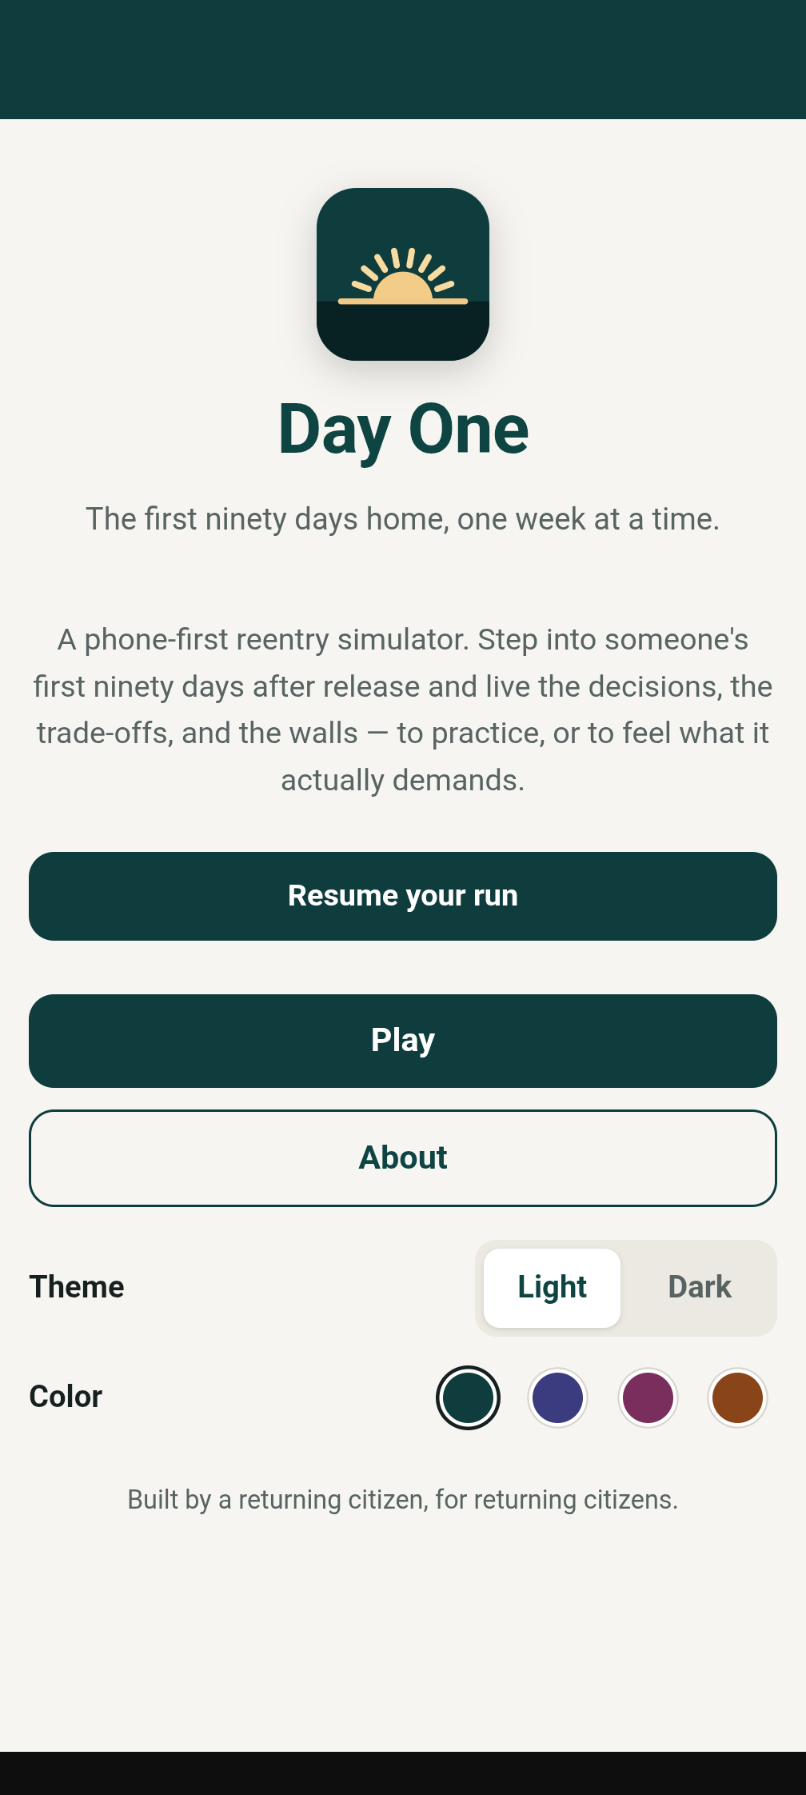
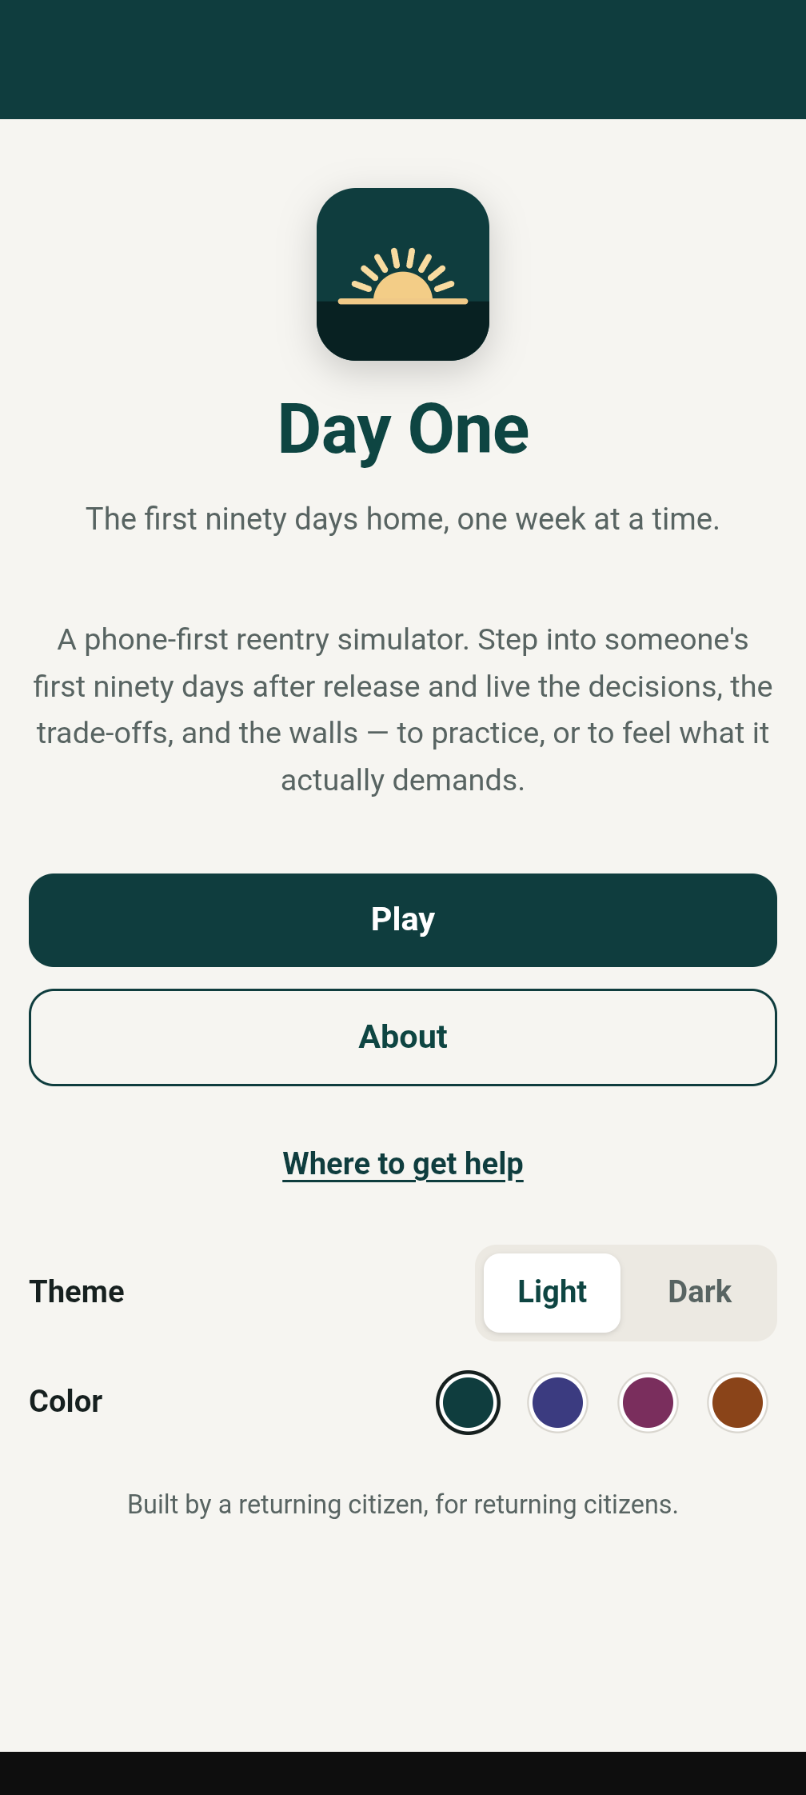
docs: ROADMAP.md + a six-shot README screenshot gallery
Add a forward-looking ROADMAP.md (next archetypes, content depth, facilitator guide;
points to CHANGELOG for shipped work) and link it from the README Status section.

Expand the README Screenshots section from two images to a curated six-shot gallery
captured on-device — landing, character select, the weekly turn, the state-ID
catch-22, the situation panel, and the debrief. (Left the 'Currently: N events / M
tests' line untouched so the housing-ladder PR owns that bump.)

diff --git a/ROADMAP.md b/ROADMAP.md
@@ -1,0 +1,52 @@
+# Roadmap
+
+Where Day One is headed. This is a living document and the *forward* look — the source
+of truth for what's already **shipped** is [`CHANGELOG.md`](CHANGELOG.md). Nothing here
+is a promise or a date, just the current order of intent.
+
+Any change has to hold to the design north stars in
+[`docs/DESIGN.md`](docs/DESIGN.md); [`CONTRIBUTING.md`](CONTRIBUTING.md) covers how to
+land one.
+
+## Recently shipped
+
+Through **v1.2.1** (see the changelog for detail):
+
+- Six character archetypes + a generated random build; training and empathy modes.
+- A reentry **resource directory** ("Where to get help"), reachable any time.
+- Transportation & housing content; the live **situation panel**; pool-change feedback.
+- A **housing ladder** so housing only moves up (street → couch → transitional → rental).
+- UX & accessibility polish; an installable, offline PWA.
+
+## Next up
+
+In rough priority order:
+
+1. **Reunifying-parent archetype** — a build whose central pressure is family court,
+   custody, and child support. Needs a small arc of family/court events plus the origin
+   data. The hardest, most human path we haven't modeled yet.
+2. **Young first-timer archetype** — short time inside, no work history; the barrier is
+   inexperience and thin support rather than a long gap. Mostly origin data.
+3. **More content depth** — widen the thinnest tracks, especially the
+   registry/employment wall and the relationships path, so repeat runs keep surfacing
+   fresh decisions.
+4. **Facilitator guide** — a short doc for running the classroom/group mode (shared
+   seed codes, debrief discussion prompts) in a training or workshop setting.
+
+## Later / ideas
+
+Not scheduled, but on the table:
+
+- A printable or shareable **debrief summary** (beyond the run-export JSON).
+- More **crisis branches** and second-order consequences on the legal track.
+- Light **localization** scaffolding (the content is already data, not code).
+- An **author/preview** mode for content contributors.
+
+## How this roadmap works
+
+- **Shipped → [`CHANGELOG.md`](CHANGELOG.md).** This file only looks forward.
+- Each item lands as its own PR through green CI (see [`CONTRIBUTING.md`](CONTRIBUTING.md)).
+- Difficulty and barriers are authored in **content / tuning data**, never hardcoded:
+  adding a character is mostly an origin YAML, and adding an obstacle is a `requires`
+  on a choice or a `condition` on an event.
+- Have an idea, or a build you'd want to play? Open an issue.

diff --git a/README.md b/README.md
@@ -31,13 +31,18 @@ are remembered, not imagined.
 
 ## Screenshots
 
-| The landing page | The document catch-22, on screen |
+| The landing page | Who will you play? |
 | :---: | :---: |
-| ![Day One's landing page — sunrise logo, Play / About, theme controls](docs/screenshots/landing.png) | ![An event with the right next move shown locked, listing what it requires](docs/screenshots/event-state-id.png) |
+| ![Day One's landing page — sunrise logo, Play / About, theme controls](docs/screenshots/landing.png) | ![Character select — reentry builds, each with time inside, supervision, and where they're sleeping](docs/screenshots/character-select.png) |
+| **The weekly turn** | **The document catch-22** |
+| ![A week in play — resource bars, a "rent is due" interrupt, a parole check-in due, and the actions you can take](docs/screenshots/turn-screen.png) | ![Getting a state ID — the right next move shown locked, listing what it requires](docs/screenshots/event-state-id.png) |
+| **Your situation** | **Ninety days — the debrief** |
+| ![The situation panel — housing, work, supervision, support, getting around, and a shareable run code](docs/screenshots/situation-panel.png) | ![The debrief — where each track landed and why, scored on trajectory rather than final position](docs/screenshots/debrief.png) |
 
 The right next move is visible but **locked**, with the reason spelled out (*need a
 birth certificate · need proof of address · need money ≥ 30*) — that gap is the
-simulation.
+simulation. There's no "you lost" screen: a run ends in a **debrief** that scores
+trajectory and decisions, not just where you finished.
 
 ---
 
@@ -81,8 +86,10 @@ you can do today:
 - **Find real help** — a "Where to get help" screen (free, national reentry resources)
   is one tap from the landing page, the in-game info card, and the end-of-run debrief.
 
-What's still open (content breadth, and local/jurisdiction resource listings on top
-of the shipped national baseline) is at the bottom of [`DEVELOPMENT.md`](DEVELOPMENT.md).
+What's planned next — new archetypes, deeper content, a facilitator guide — lives in
+[`ROADMAP.md`](ROADMAP.md). Lower-level open threads (content breadth, and
+local/jurisdiction resource listings on top of the shipped national baseline) are at
+the bottom of [`DEVELOPMENT.md`](DEVELOPMENT.md).
 
 ---
 